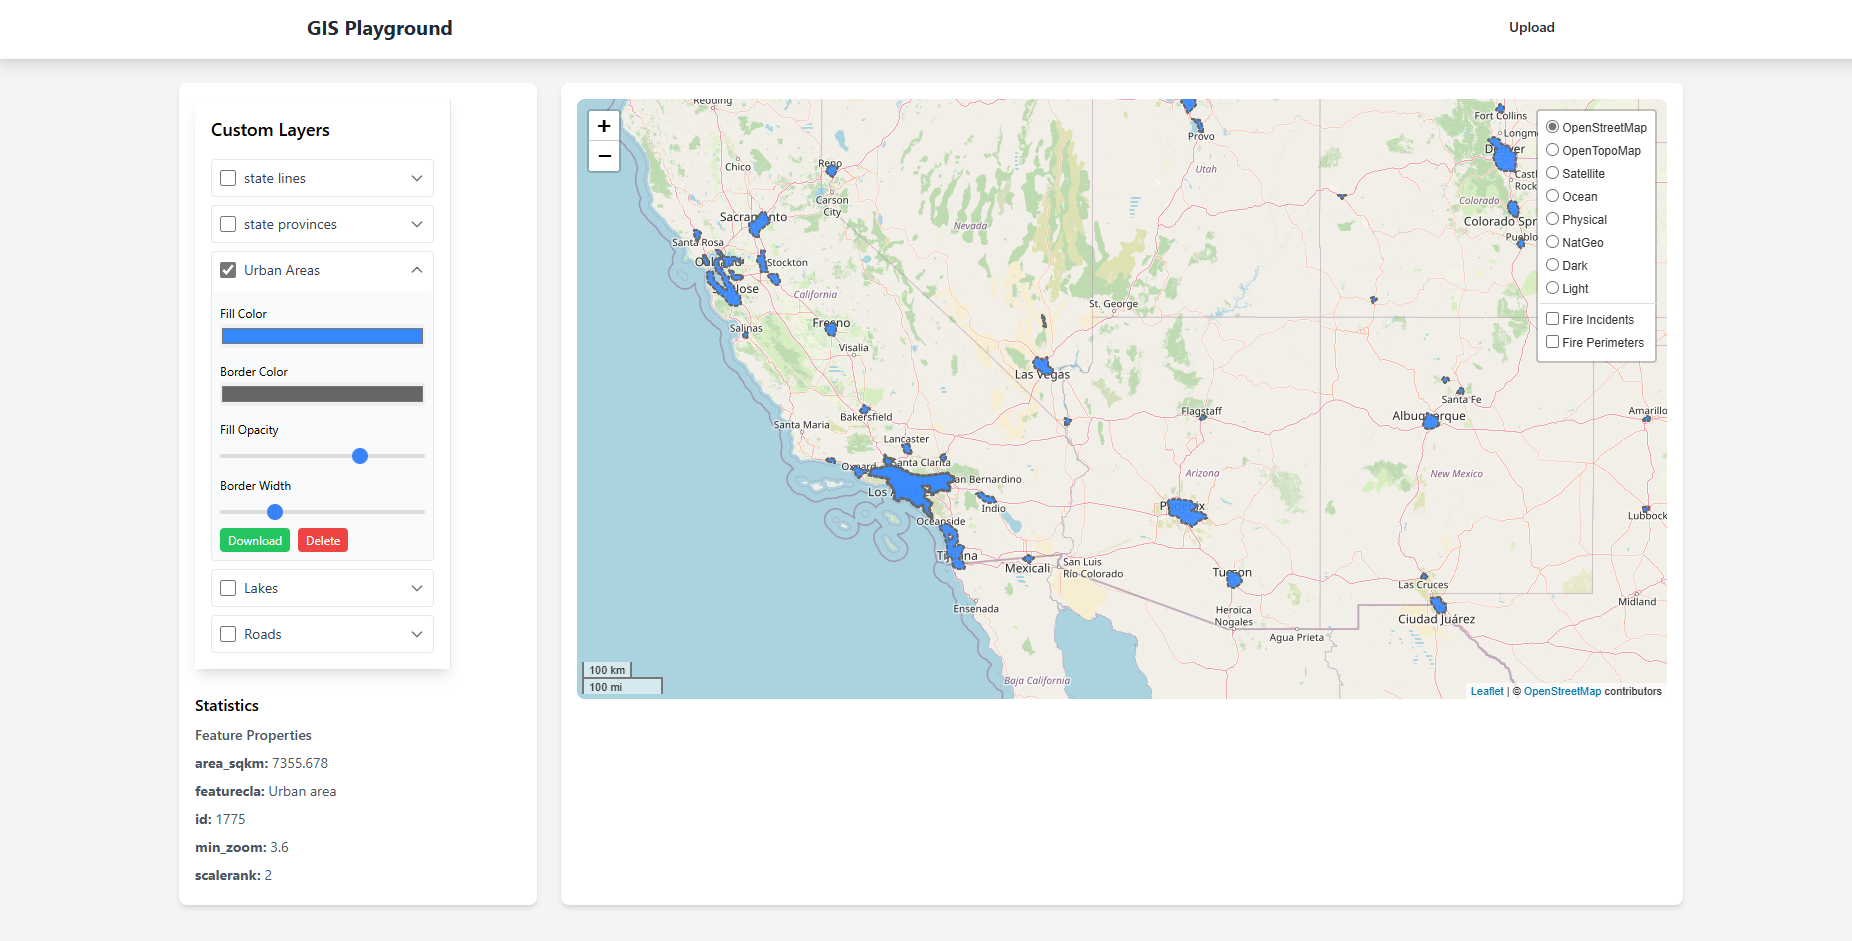
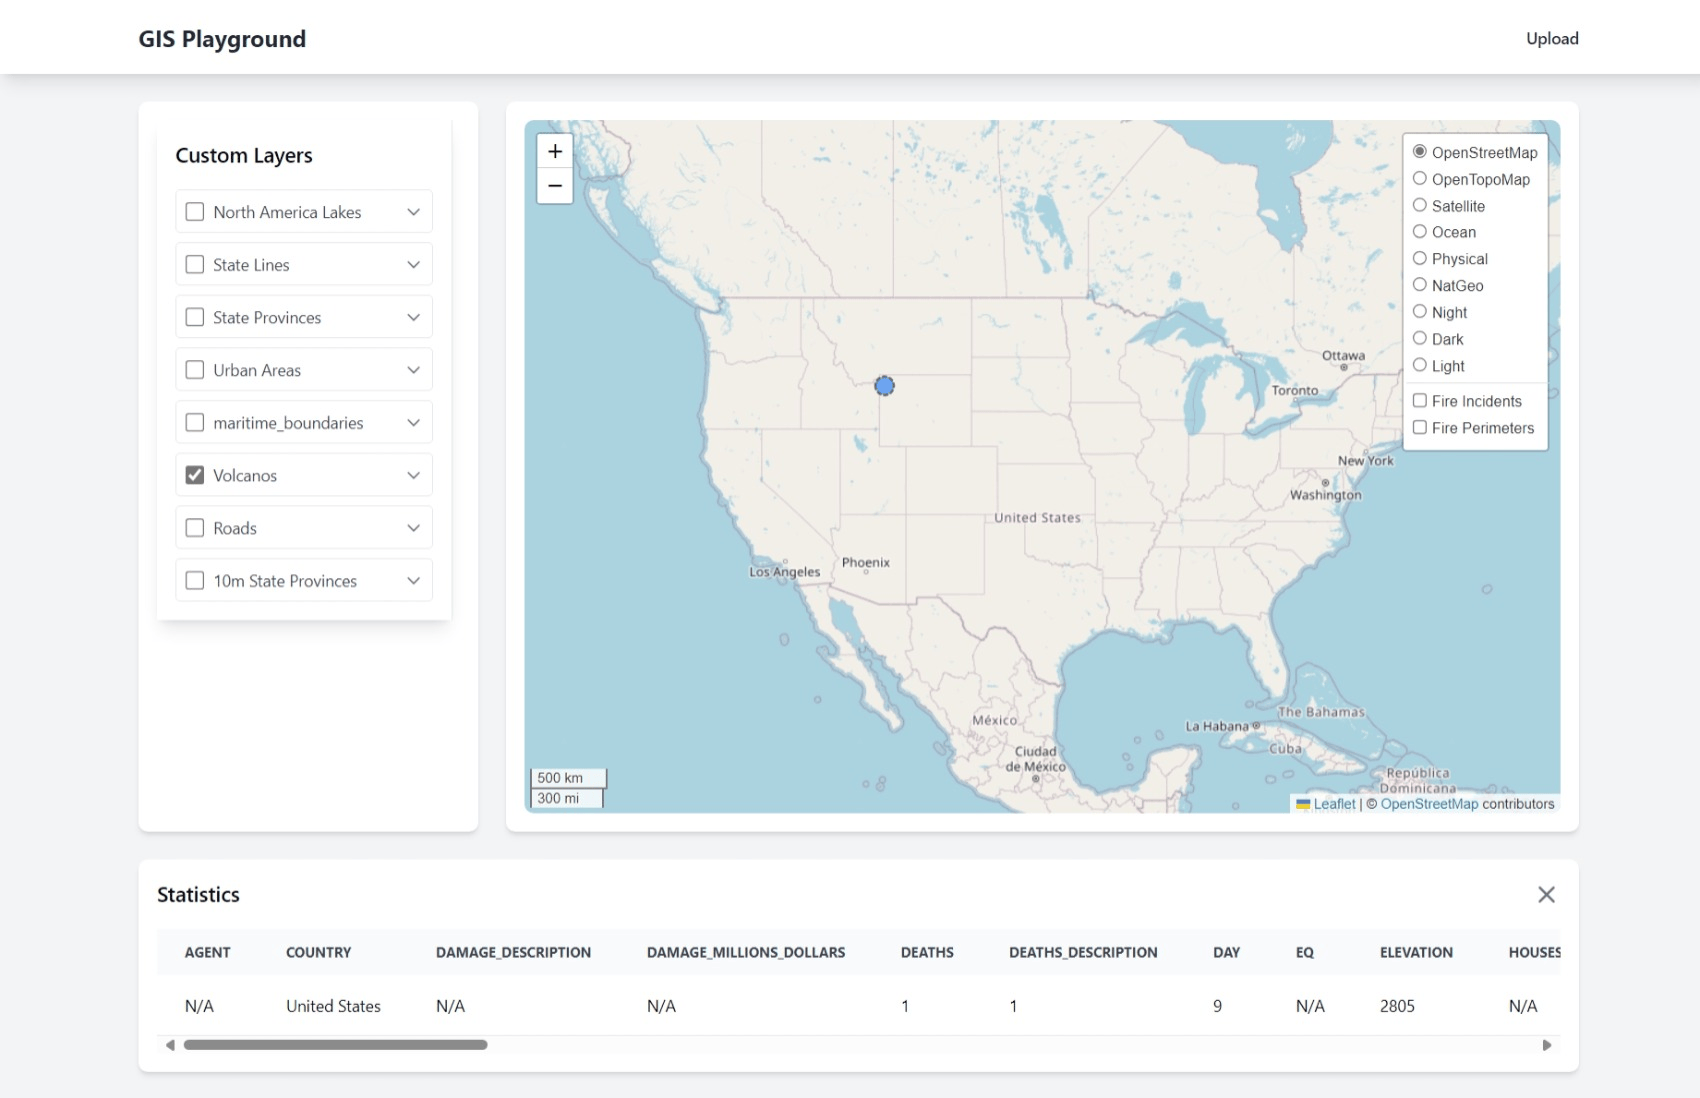
Optimized custom layer styles. Major map.js refactor in process

diff --git a/app/templates/index.html b/app/templates/index.html
@@ -5,7 +5,7 @@
 <div id="toolsSection" class="my-6 bg-white rounded-lg shadow-md p-4 hidden">
     <h3 class="text-lg font-semibold mb-4">Tools</h3>
     <div class="overflow-x-auto">
-        <div id="tools" class="inline-block min-w-full scroll-x">
+        <div id="tools" class="inline-block min-w-full">
             <div class="text-center text-gray-500 py-4">
                 No Custom tools currently available.
             </div>
@@ -15,11 +15,11 @@
 
 <div class="grid grid-cols-1 lg:grid-cols-4 gap-6">
     <!-- Sidebar -->
-    <div class="lg:col-span-1 bg-white rounded-lg shadow-md p-4">
-        <div id="sidebar" class="w-64 bg-white shadow-lg">
+    <div class="lg:col-span-1">
+        <div class="bg-white rounded-lg shadow-md">
             <div class="p-4">
                 <h2 class="text-lg font-semibold mb-4">Custom Layers</h2>
-                <div id="layersList" class="space-y-2">
+                <div id="layersList" class="space-y-2 h-[560px] overflow-y-auto scrollbar-thin scrollbar-thumb-gray-400 scrollbar-track-gray-100 pr-2">
                     <!-- Layers will be populated here -->
                 </div>
             </div>
@@ -27,24 +27,26 @@
     </div>
 
     <!-- Map Container -->
-    <div class="lg:col-span-3 bg-white rounded-lg shadow-md p-4">
-        <div id="map" class="h-[600px] w-full rounded-lg"></div>
+    <div class="lg:col-span-3">
+        <div class="bg-white rounded-lg shadow-md p-4">
+            <div id="map" class="h-[600px] w-full rounded-lg"></div>
+        </div>
     </div>
 </div>
 
-<!-- Statistics Section -->
+<!-- Attributes Section -->
 <div class="mt-6 bg-white rounded-lg shadow-md p-4">
     <div class="flex justify-between items-center mb-4">
-        <h3 class="text-lg font-semibold">Statistics</h3>
+        <h3 class="text-lg font-semibold">Attributes</h3>
         <button id="clearStats" class="hidden text-gray-500 hover:text-gray-700 transition-colors duration-200">
             <svg xmlns="http://www.w3.org/2000/svg" class="h-6 w-6" fill="none" viewBox="0 0 24 24" stroke="currentColor">
                 <path stroke-linecap="round" stroke-linejoin="round" stroke-width="2" d="M6 18L18 6M6 6l12 12" />
             </svg>
-            <span class="sr-only">Clear statistics</span>
+            <span class="sr-only">Clear Attributes</span>
         </button>
     </div>
     <div class="overflow-x-auto scrollbar-thin scrollbar-thumb-gray-400 scrollbar-track-gray-100">
-        <div id="statistics" class="min-w-full">
+        <div id="attributes" class="min-w-full">
             <div class="text-center text-gray-500 py-4">
                 No feature selected
             </div>

diff --git a/app/static/js/map.js b/app/static/js/map.js
@@ -433,7 +433,7 @@ function removeLayer(layerId) {
 }
 
 function displayStatistics(properties, type) {
-    const statsDiv = document.getElementById('statistics');
+    const statsDiv = document.getElementById('attributes');
         const clearButton = document.getElementById('clearStats');
         clearButton.classList.remove('hidden');
 
@@ -512,7 +512,7 @@ function updateCustomLayerStatistics(properties) {
 }
 
 function clearStatistics() {
-    const statsDiv = document.getElementById('statistics');
+    const statsDiv = document.getElementById('attributes');
         const clearButton = document.getElementById('clearStats');
         statsDiv.innerHTML = `
             <div class="text-center text-gray-500 py-4">

diff --git a/app/templates/base.html b/app/templates/base.html
@@ -42,7 +42,6 @@
         integrity="sha256-20nQCchB9co0qIjJZRGuk2/Z9VM+kNiyxNV1lvTlZBo="
         crossorigin=""></script>
 
-<!--<script type="module" src="{{ url_for('static', filename='js/main.js') }}"></script>-->
 <!-- Esri Leaflet -->
 <script src="https://unpkg.com/esri-leaflet@3.0.10/dist/esri-leaflet.js"></script>
 <script src="https://unpkg.com/esri-leaflet-renderers@3.0.1/dist/esri-leaflet-renderers.js"></script>
